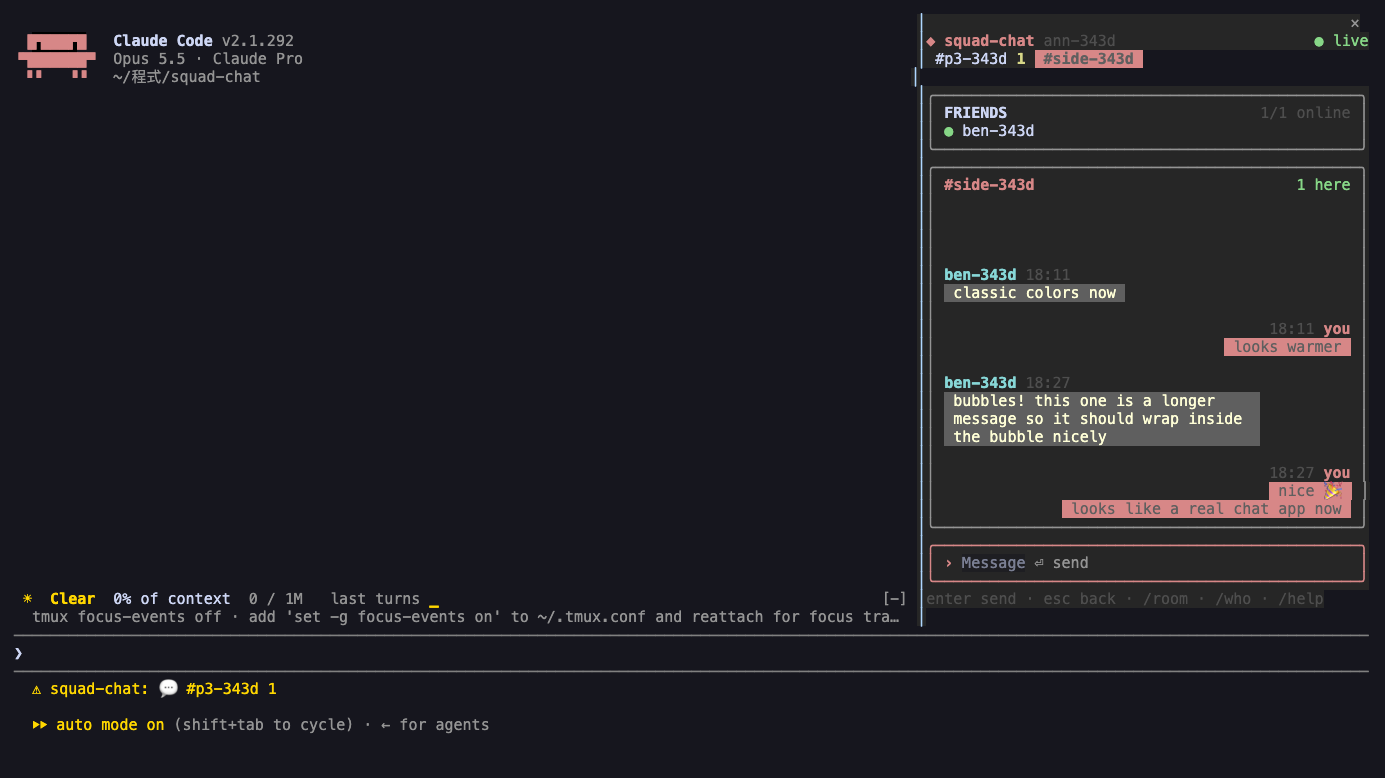
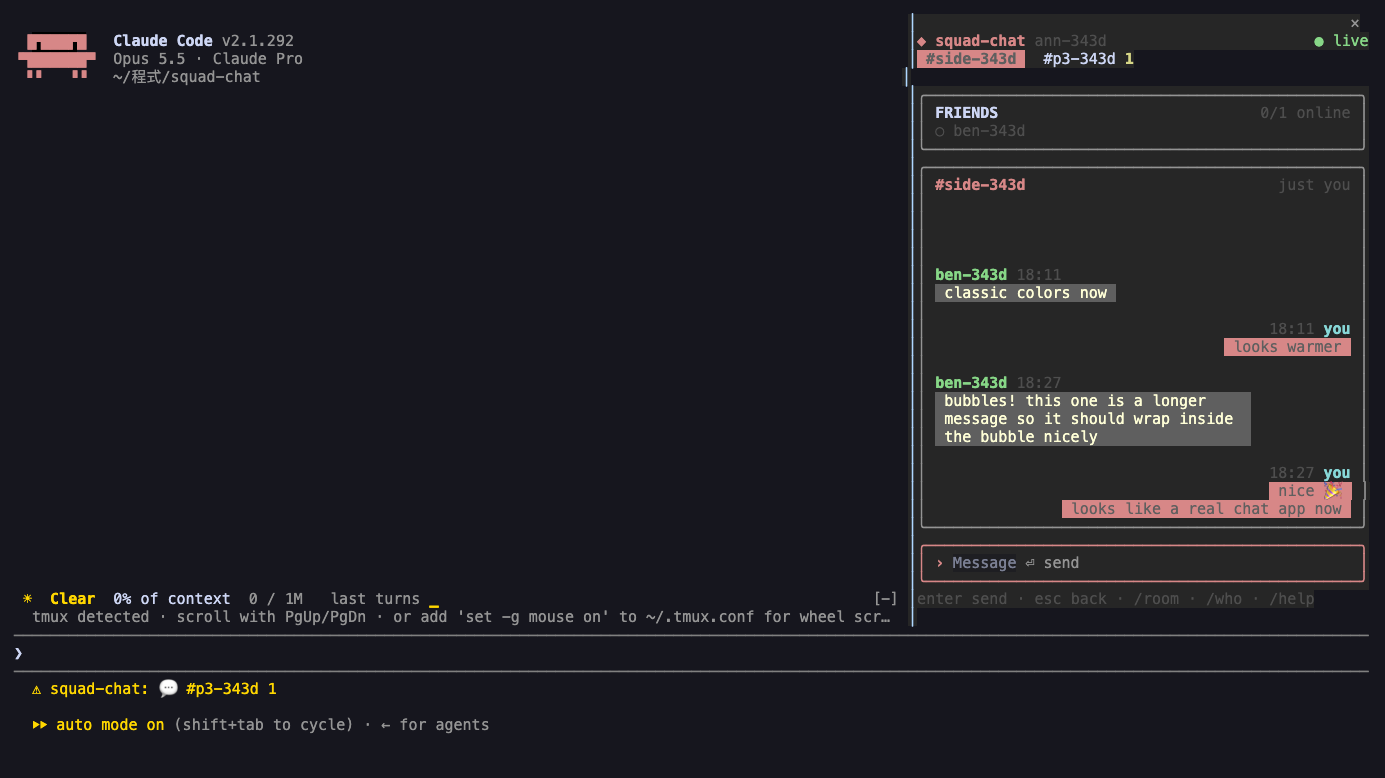
Sky blue for 'you', apart from the coral bubbles (v0.3.2)
Friends' name colors no longer include blues, so sky blue means you.

diff --git a/docs/PLAN.md b/docs/PLAN.md
@@ -205,4 +205,4 @@ squad-chat/
 - 版面細節：文字列不得用 Text 的 flex 屬性（engine 會拒絕整棵樹），改包在 Box；訊息內文 Box 用 column 方向才會正確換行；行數估算以 word-wrap 與寬字元計算，dock 預留一列給關閉鈕。
 ✅ 15 個 mod 測試通過（含 new 分隔線、分頁切換）；80/150 欄實機截圖確認（docs/screenshots/）。
 - **v0.3.1 對話泡泡**：依使用者要求改成一般聊天 app 排版：對方訊息靠左、深灰底泡泡（上方「名字 時間」），自己的靠右、珊瑚橘底泡泡（上方「時間 you」）；泡泡寬度隨內容、最多約 78%，長訊息在泡內換行；泡泡文字與底色用固定色碼以兼顧深淺主題（終端機無法畫圓角，所以是直角色塊）。
-
+- **v0.3.2**：「you」改用天藍 `#7FB6E2`，與珊瑚橘泡泡區隔；朋友的名字色盤移除藍色系，天藍只留給自己。

diff --git a/README.md b/README.md
@@ -4,7 +4,7 @@ A Claude Code mod: your friends' online status and a group chat in a side pane, 
 
 ![squad-chat docked beside Claude Code](docs/screenshots/pane.png)
 
-> **Status: v0.3.1.** Sign in, rooms, presence and chat work against the hosted Supabase project, in wide and narrow terminals, through network drops and bridge crashes.
+> **Status: v0.3.2.** Sign in, rooms, presence and chat work against the hosted Supabase project, in wide and narrow terminals, through network drops and bridge crashes.
 
 ## Install
 
